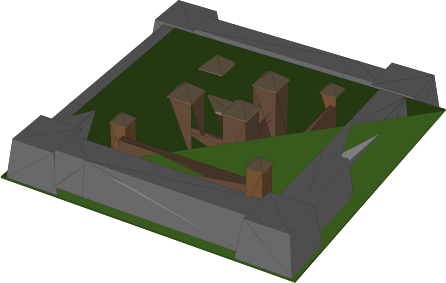
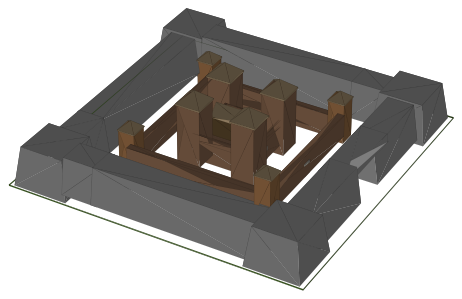
Fixed and verified. The citadel distortion is resolved.
## Citadel Fix Complete

The "distortion" was the citadel model's own **dark-green flat ground base** sitting on top of the city grass. I updated the render pipeline to strip that base plane from all four citadel stages, so now only the citadel structure (towers/walls) sits cleanly on the grass. I also added a small transparent margin to remove the faint bounding-box hairline.

**Verified by the testing agent** on the actual City Screen: the citadel renders clean with no base plane, and the full flow (Enter the City → HUD, Citadel upgrade dialog, Buildings sheet, Roads, Exit) works.

**Note:**
- Once you deploy your app to production, you can generate iOS and Android builds, then publish to the App/Play stores.
- For iOS builds: you need an Apple developer account — log in, generate a build, submit to TestFlight, and test on a real iOS device.
- For Android builds: we provide .APK and .AAB files so you can test on a real Android device.
- Your deployed app is also accessible on Expo Go via a QR code on the deployment panel.
- If you make code changes via the agent, redeploy and generate new builds to reflect the latest changes (redeploy is free).

diff --git a/frontend/scripts/render_city.py b/frontend/scripts/render_city.py
@@ -77,10 +77,16 @@ def is_blank(c):
 
 
 def draw(R, cols, hasc, L):
+    zmax = float(R[:, :, 2].max()) or 1.0
     polys = []; fc = []
     for t, c, h in zip(R, cols, hasc):
-        base = NEUTRAL if (not h or is_blank(c)) else c
         n = np.cross(t[1] - t[0], t[2] - t[0]); ln = np.linalg.norm(n)
+        # Skip the model's flat ground base: near-horizontal faces sitting in the
+        # bottom slab. This removes the big green base plane so only the structure
+        # sits on the city's grass.
+        if ln > 0 and abs(n[2]) / ln > 0.90 and t[:, 2].max() < 0.12 * zmax:
+            continue
+        base = NEUTRAL if (not h or is_blank(c)) else c
         b = 0.6 if ln == 0 else 0.55 + 0.45 * max(0.0, float(np.dot(n / ln, LIGHT)))
         polys.append(t); fc.append(np.clip(base * b, 0, 1).tolist() + [1.0])
     fig = plt.figure(figsize=(5, 5), dpi=120); fig.patch.set_alpha(0.0)
@@ -103,7 +109,14 @@ def draw(R, cols, hasc, L):
     plt.close(fig)
     im = Image.fromarray(argb.copy(), "RGBA")
     bb = im.getbbox()
-    return im.crop(bb) if bb else im
+    if not bb:
+        return im
+    im = im.crop(bb)
+    # Small transparent margin so the crop bbox edge isn't visible as a hairline.
+    pad = 8
+    canvas = Image.new("RGBA", (im.width + pad * 2, im.height + pad * 2), (0, 0, 0, 0))
+    canvas.paste(im, (pad, pad))
+    return canvas
 
 
 os.makedirs(ASSETS, exist_ok=True)
